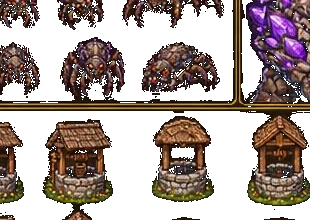
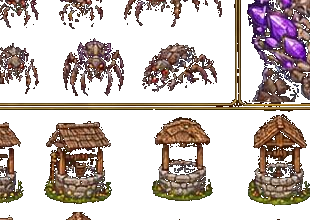
v11.2 no black borders: tile sprite +1px offset + 30x30 crop, drawPortrait procedural only, drawObj procedural only (well/NPCs/enemies), drawPlayer procedural brown-coat surveyor

diff --git a/index.html b/index.html
@@ -106,7 +106,7 @@ footer{font-size:10px;color:var(--muted);padding-bottom:4px;text-align:center}
   <button id="helpBtn">Help</button>
   <button id="resetBtn">New Game</button>
 </section>
-<footer>Star-Well Survey · v11.1 — fixed sprite borders · clean frames · surveyor style</footer>
+<footer>Star-Well Survey · v11.2 — no black borders · procedural characters · clean tiles</footer>
 
 <div id="modal" class="modal"><div class="panel"><button class="close" id="closeModal">×</button><h2 id="modalTitle"></h2><div id="modalBody"></div></div></div>
 
@@ -1682,7 +1682,7 @@ function drawTile(tx,ty,ch,biome){
     else if(key==='m'){ sc=4+Math.abs(tx+ty)%4; sr=7; }
     else if(key==='s'){ sc=Math.abs(tx+ty)%8; sr=8; }
     else if(key==='h'){ sc=Math.abs(tx*2+ty)%8; sr=9; }
-    ctx.drawImage(mapSheet, sc*32, sr*32, 32, 32, Math.floor(px), Math.floor(py), T+1, T+1);
+    ctx.drawImage(mapSheet, sc*32+1, sr*32+1, 30, 30, Math.floor(px), Math.floor(py), T+1, T+1);
     // light grass sway overlay only for grass
     if(key==='g' && (biome==='prairie'||biome==='town')){
       const sway = Math.sin(time*2+tx*0.7+ty)*1.5;
@@ -1901,14 +1901,6 @@ function drawObj(o,t){
       break;
     }
     case 'well': {
-      if(sprWell.complete && sprWell.naturalWidth>0){
-        // Center crop — one clean well, no border scroll
-        const sw=Math.min(120, Math.floor(sprWell.naturalWidth/2));
-        const sh=Math.min(140, sprWell.naturalHeight-10);
-        const sx=Math.floor(sprWell.naturalWidth/2-sw/2);
-        ctx.drawImage(sprWell, sx, 5, sw, sh, px-2*s, py-4*s, 42*s, 42*s);
-        break;
-      }
       ctx.fillStyle = 'rgba(0,0,0,0.25)';
       ctx.beginPath(); ctx.ellipse(px+20*s, py+32*s, 18*s, 5*s, 0, 0, Math.PI*2); ctx.fill();
       ctx.fillStyle = '#3a3a48';
@@ -1931,49 +1923,48 @@ function drawObj(o,t){
       break;
     }
     case 'npc': {
-      let npcImg = null;
-      if(o.id==='deputy'||o.id==='sheriff') npcImg = sprSheriff;
-      else if(o.id==='louisa'||o.id==='mara') npcImg = sprLady;
-      else if(o.id==='ghost') npcImg = sprGhost;
-      else if(o.id==='merchant'||o.id==='crowe') npcImg = sprTownMan;
-      if(npcImg && npcImg.complete && npcImg.naturalWidth>0){
-        // Use one clean center region — avoid scrolling through panel chrome
-        const sw = Math.min(64, Math.floor(npcImg.naturalWidth/4));
-        const sh = Math.min(80, Math.floor(npcImg.naturalHeight/2));
-        const sx = Math.floor(npcImg.naturalWidth/2 - sw/2);
-        const sy = Math.floor(npcImg.naturalHeight/2 - sh/2);
-        if(o.id==='ghost') ctx.globalAlpha=0.7;
-        ctx.drawImage(npcImg, sx, sy, sw, sh, px, py, 34*s, 38*s);
-        ctx.globalAlpha=1;
-        if(near(o, 2.2)){
-          ctx.fillStyle='rgba(8,12,18,0.75)';
-          const label=o.name||'Someone';
-          ctx.font=`${Math.max(10,11*s)}px system-ui`;
-          ctx.textAlign='center';
-          const tw=ctx.measureText(label).width;
-          ctx.fillRect(px+18*s-tw/2-4, py-8*s, tw+8, 14);
-          ctx.fillStyle='#e0b45c';
-          ctx.fillText(label, px+18*s, py+2*s);
-        }
-        break;
-      }
-      ctx.fillStyle = 'rgba(0,0,0,0.25)';
-      ctx.beginPath(); ctx.ellipse(px+18*s, py+34*s, 10*s, 3*s, 0, 0, Math.PI*2); ctx.fill();
-      ctx.fillStyle = '#1e2a38';
-      ctx.fillRect(px+11*s, py+24*s, 5*s, 9*s);
-      ctx.fillRect(px+20*s, py+24*s, 5*s, 9*s);
-      ctx.fillStyle = '#3d6a5a';
-      ctx.fillRect(px+10*s, py+13*s, 16*s, 13*s);
-      ctx.fillStyle = '#2d5a4a';
-      ctx.fillRect(px+10*s, py+13*s, 16*s, 3*s);
-      ctx.fillStyle = '#e8d0b0';
+      // procedural NPCs only (no sheet borders)
+
+      ctx.fillStyle = 'rgba(0,0,0,0.28)';
+      ctx.beginPath(); ctx.ellipse(px+18*s, py+35*s, 11*s, 3.5*s, 0, 0, Math.PI*2); ctx.fill();
+      // distinct colors by id
+      let coat = '#3d6a5a', accent = '#2d5a4a', hat = '#3a2a1a';
+      if(o.id==='mara'){ coat='#4a7a6a'; accent='#c45a3a'; hat='#2a4a3a'; }
+      else if(o.id==='merchant'){ coat='#6a5a3a'; accent='#e0b45c'; hat='#4a3a2a'; }
+      else if(o.id==='deputy'){ coat='#3a4a6a'; accent='#c0c0d0'; hat='#2a2a3a'; }
+      else if(o.id==='crowe'){ coat='#5a4a3a'; accent='#8a6a40'; hat='#3a2a1a'; }
+      else if(o.id==='ghost'){ coat='#4a5a6a'; accent='#80a0c0'; hat='#3a4a5a'; ctx.globalAlpha=0.7; }
+      else if(o.id==='louisa'){ coat='#6a4a5a'; accent='#d080a0'; hat='#4a3a3a'; }
+      ctx.fillStyle = '#1e2430';
+      roundRect(ctx, px+11*s, py+25*s, 5*s, 9*s, 1.5*s);
+      roundRect(ctx, px+20*s, py+25*s, 5*s, 9*s, 1.5*s);
+      ctx.fillStyle = coat;
+      roundRect(ctx, px+9*s, py+13*s, 18*s, 13*s, 4*s);
+      ctx.fillStyle = accent;
+      roundRect(ctx, px+10*s, py+13*s, 16*s, 3*s, 1.5*s);
+      ctx.fillStyle = '#f0d8b0';
       ctx.beginPath(); ctx.arc(px+18*s, py+9*s, 7.5*s, 0, Math.PI*2); ctx.fill();
-      ctx.fillStyle = '#3a2a1a';
-      ctx.fillRect(px+9*s, py+3*s, 18*s, 5*s);
-      ctx.fillRect(px+12*s, py+1*s, 12*s, 3*s);
-      ctx.fillStyle = '#2a2a2a';
-      ctx.fillRect(px+14*s, py+8*s, 2.5*s, 2.5*s);
-      ctx.fillRect(px+20*s, py+8*s, 2.5*s, 2.5*s);
+      ctx.fillStyle = hat;
+      ctx.beginPath(); ctx.ellipse(px+18*s, py+5*s, 11*s, 3*s, 0, 0, Math.PI*2); ctx.fill();
+      roundRect(ctx, px+11*s, py+1*s, 14*s, 5*s, 2*s);
+      ctx.fillStyle = '#1a1a1a';
+      ctx.beginPath(); ctx.arc(px+15*s, py+8.5*s, 1.3*s, 0, Math.PI*2); ctx.fill();
+      ctx.beginPath(); ctx.arc(px+21*s, py+8.5*s, 1.3*s, 0, Math.PI*2); ctx.fill();
+      ctx.fillStyle = 'rgba(255,255,255,0.5)';
+      ctx.beginPath(); ctx.arc(px+15.3*s, py+8.2*s, 0.4*s, 0, Math.PI*2); ctx.fill();
+      ctx.beginPath(); ctx.arc(px+21.3*s, py+8.2*s, 0.4*s, 0, Math.PI*2); ctx.fill();
+      // name plate when near
+      if(near(o, 2.2)){
+        ctx.fillStyle = 'rgba(8,12,18,0.75)';
+        const label = o.name || 'Someone';
+        ctx.font = `${Math.max(10, 11*s)}px system-ui`;
+        ctx.textAlign = 'center';
+        const tw = ctx.measureText(label).width;
+        ctx.fillRect(px+18*s - tw/2 - 4, py-6*s, tw+8, 14);
+        ctx.fillStyle = '#e0b45c';
+        ctx.fillText(label, px+18*s, py+4*s);
+      }
+      ctx.globalAlpha = 1;
       break;
     }
     case 'chest': {
@@ -2049,33 +2040,7 @@ function drawObj(o,t){
       break;
     }
     case 'enemy': {
-      // Sheet-based enemies when available — center crop, no border scroll
-      if(o.boss && o.id==='caveboss' && sprMineB.complete && sprMineB.naturalWidth>0){
-        const sw=Math.min(100, Math.floor(sprMineB.naturalWidth/2));
-        const sh=Math.min(100, Math.floor(sprMineB.naturalHeight/2));
-        const sx=Math.floor(sprMineB.naturalWidth/2-sw/2);
-        ctx.drawImage(sprMineB, sx, 5, sw, sh, px-4*s, py-8*s, 44*s, 44*s);
-        ctx.fillStyle='#e07060';
-        for(let i=0;i<(o.hp||0);i++) ctx.fillRect(px+4*s+i*6*s, py-14*s, 5*s, 3*s);
-        break;
-      }
-      if(o.type==='cave' && sprMineC.complete && sprMineC.naturalWidth>0){
-        const sw=Math.min(80, Math.floor(sprMineC.naturalWidth/3));
-        const sh=Math.min(80, Math.floor(sprMineC.naturalHeight/2));
-        const sx=Math.floor(sprMineC.naturalWidth/2-sw/2);
-        const sy=10;
-        ctx.drawImage(sprMineC, sx, sy, sw, sh, px, py, 36*s, 36*s);
-        break;
-      }
-      if(o.type==='wraith' && sprGhost.complete && sprGhost.naturalWidth>0){
-        const sw=Math.min(70, Math.floor(sprGhost.naturalWidth/3));
-        const sh=Math.min(90, Math.floor(sprGhost.naturalHeight/2));
-        const sx=Math.floor(sprGhost.naturalWidth/2-sw/2);
-        ctx.globalAlpha=0.75;
-        ctx.drawImage(sprGhost, sx, 5, sw, sh, px, py, 36*s, 40*s);
-        ctx.globalAlpha=1;
-        break;
-      }
+      // procedural enemies only (no sheet borders)
       const fl = Math.floor(t*8)%2 ? 1 : 0.9;
       ctx.globalAlpha = fl;
       ctx.fillStyle = 'rgba(0,0,0,0.25)';
